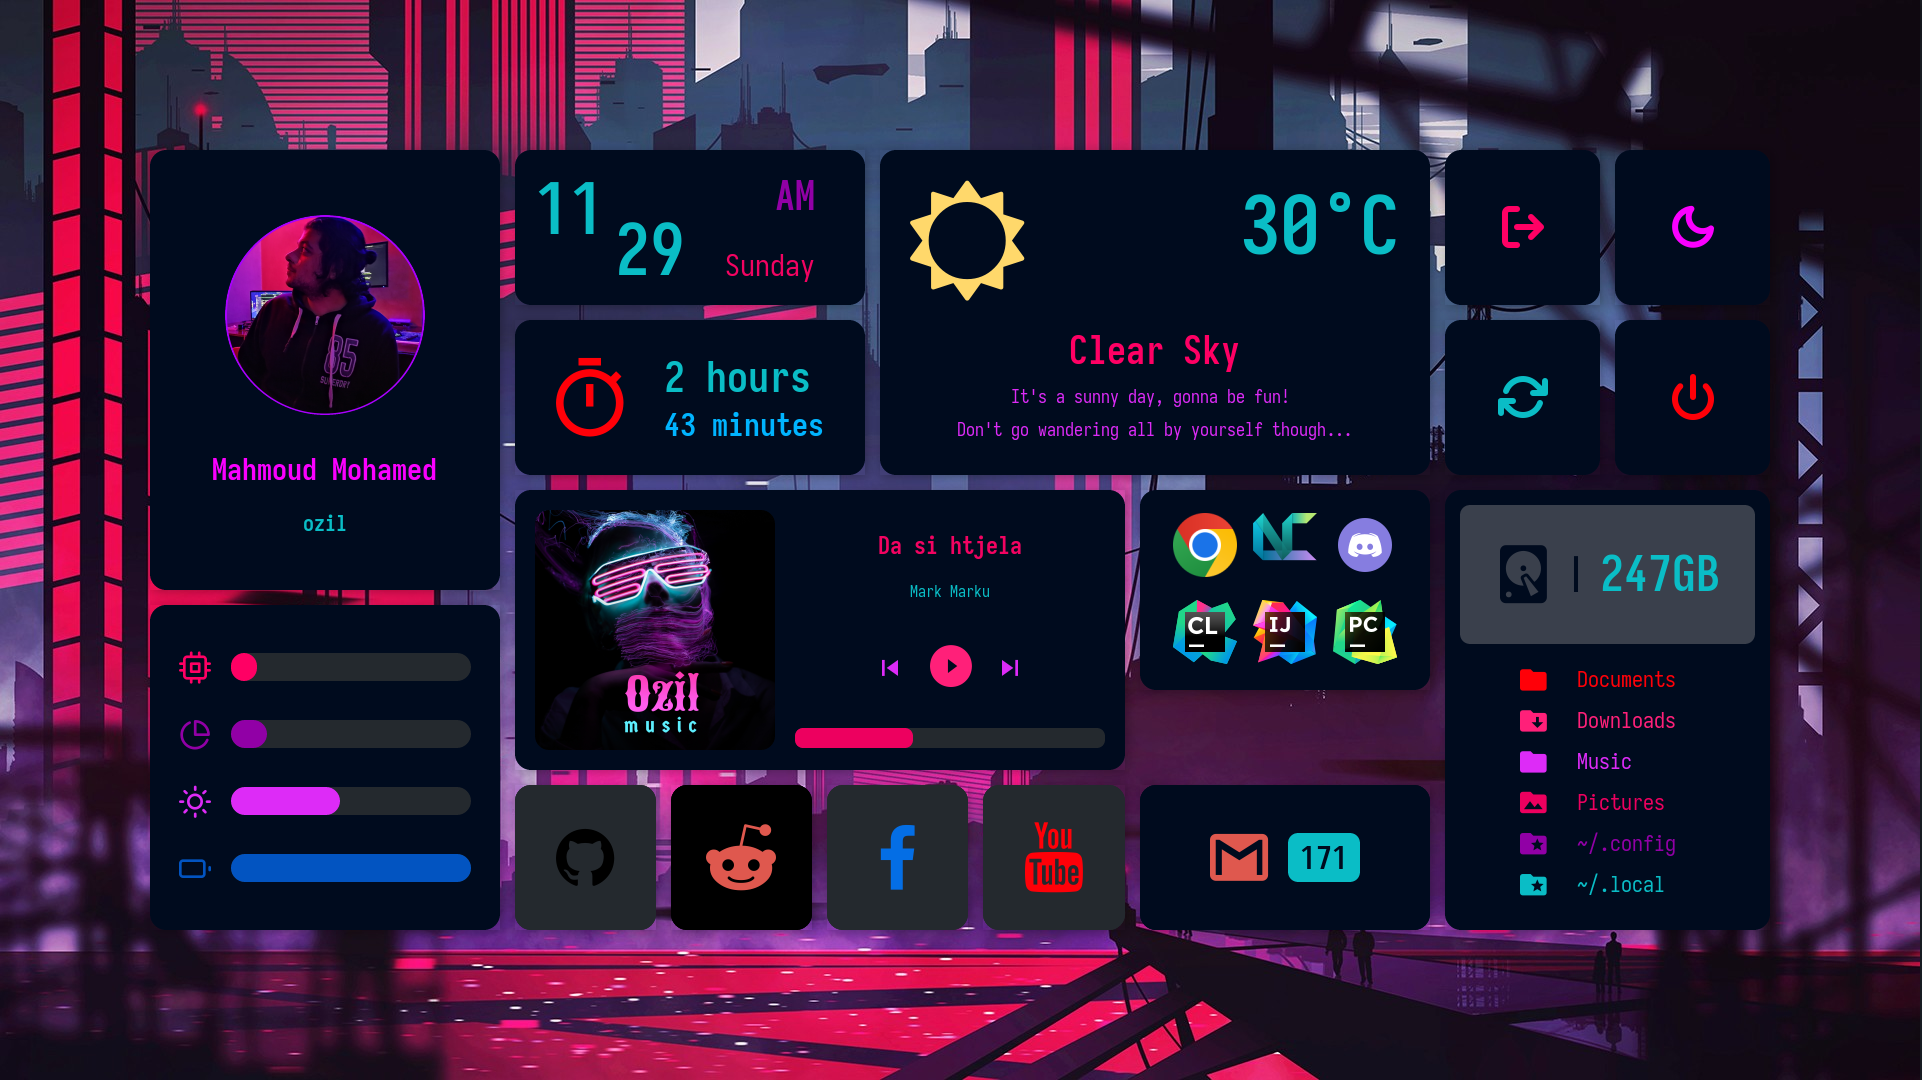
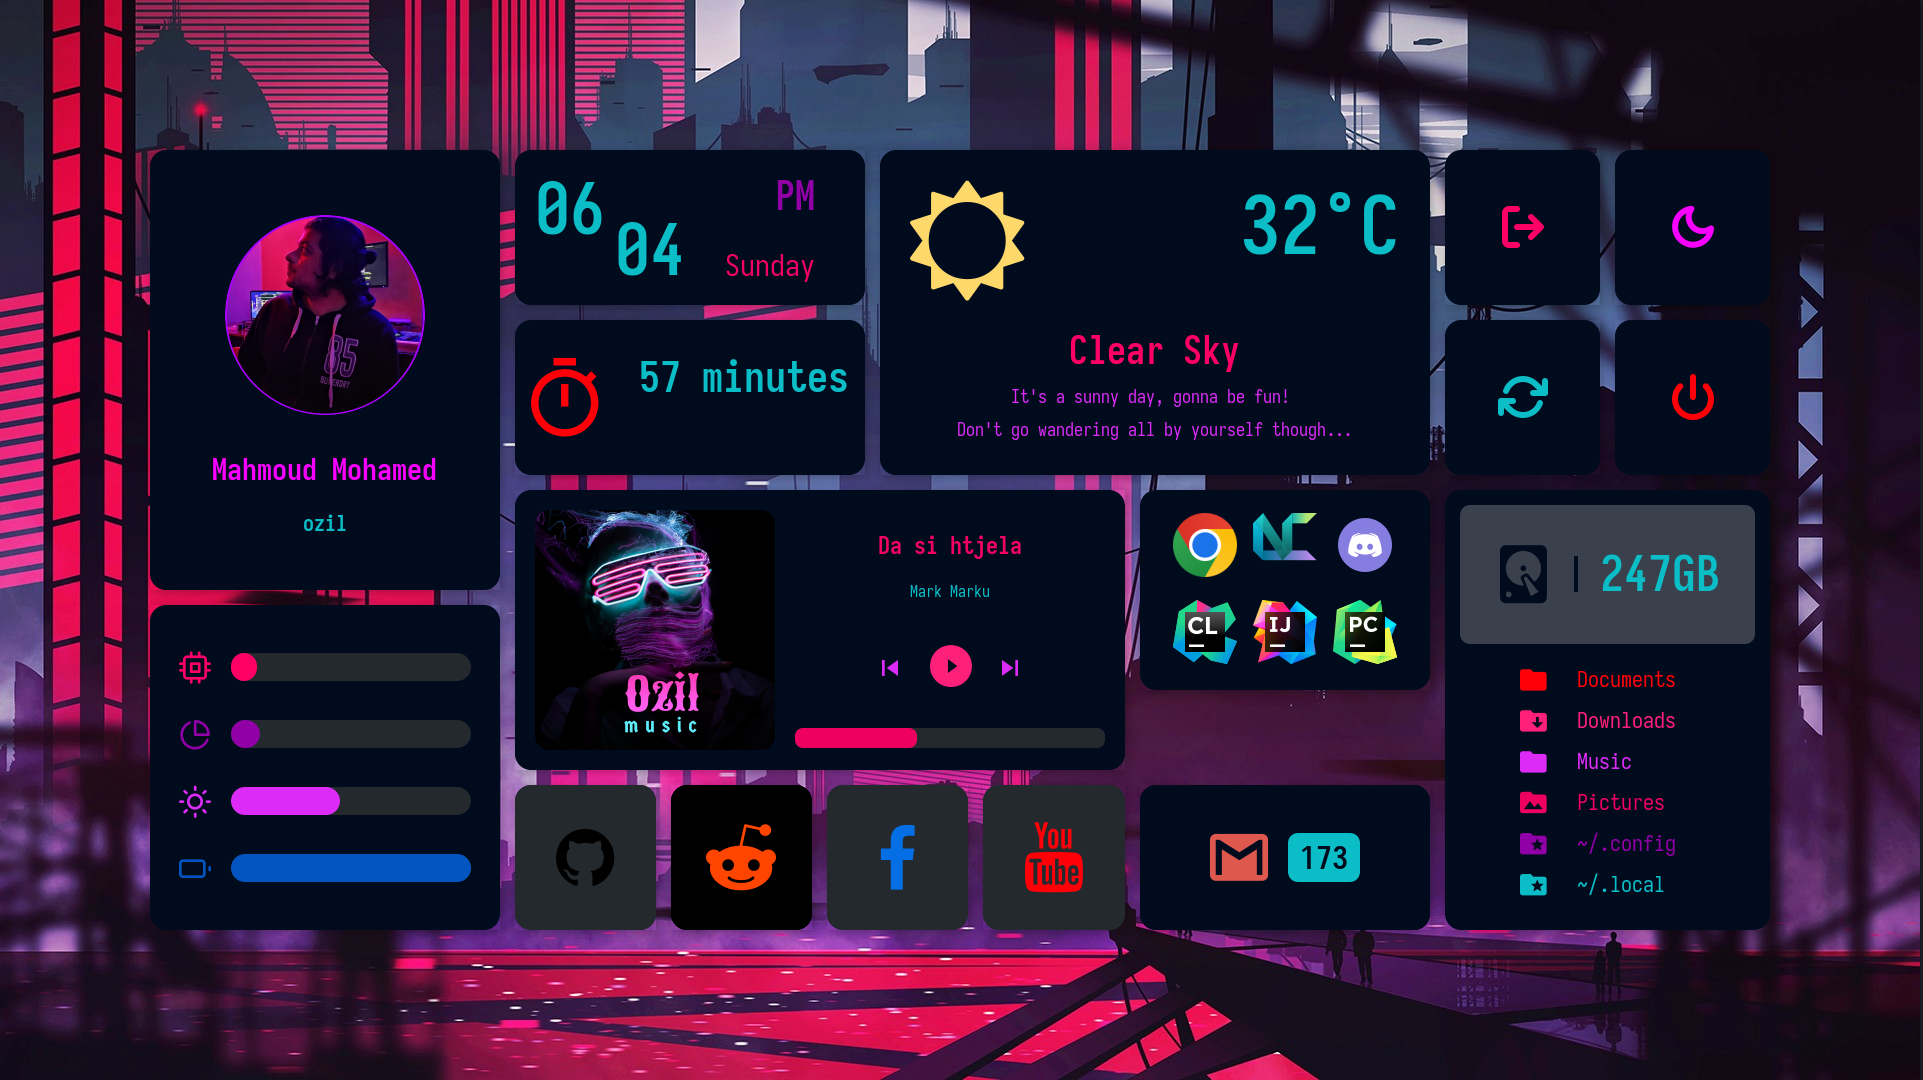
update eww

diff --git a/config/eww/dashboard/eww.scss b/config/eww/dashboard/eww.scss
@@ -265,7 +265,7 @@
 }
 
 .iconReddit {
-	color: #DF584E;
+	color: #FF4500;
 	font-family: Iosevka Nerd Font;
 	font-size : 70px;
 	font-weight : normal;
